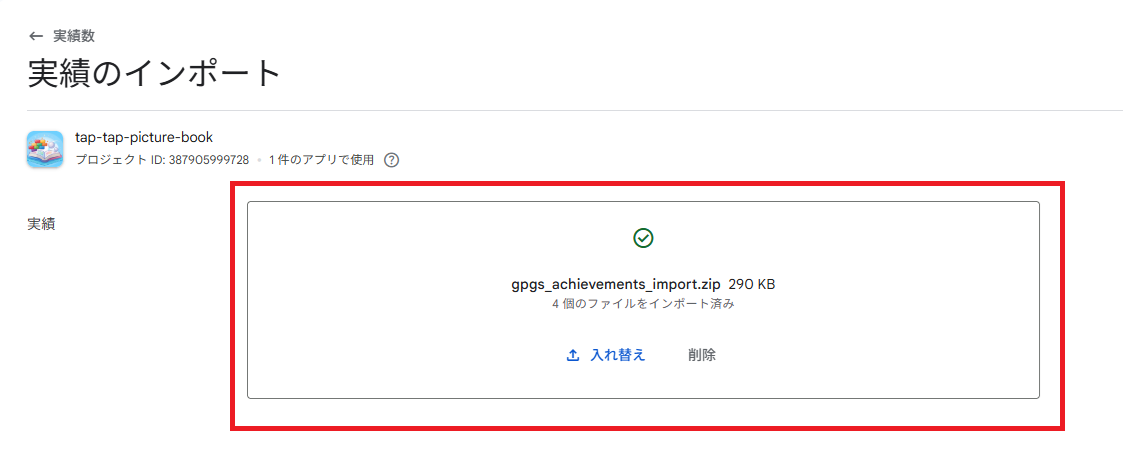
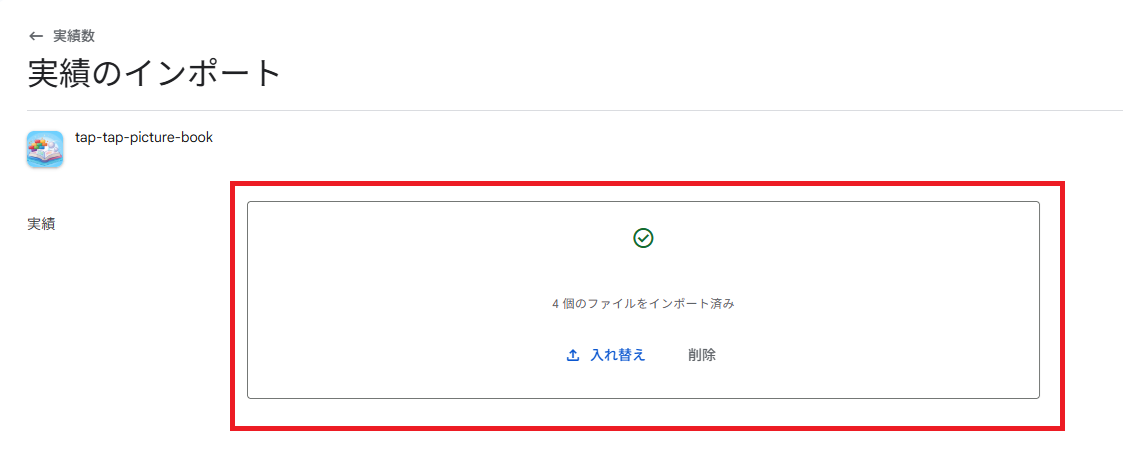
Remove internal project details from existing posts
Replace repo paths and file names with placeholders, mark
environment-specific values as examples, and hide the GCP project ID
and upload file name in the Play Console screenshots.

Changed region(s): [[0.0623, 0.3277, 0.374, 0.3574], [0.4363, 0.5957, 0.6857, 0.6255]]

diff --git a/_posts/2026-09-09-cjk-font-fallback-in-godot-4.md b/_posts/2026-09-09-cjk-font-fallback-in-godot-4.md
@@ -7,17 +7,17 @@ description: "How Tap Tap Picture Book renders Latin, Japanese, and Korean from 
 image: /icon.png
 ---
 
-*Tap Tap Picture Book* ships in seven languages, three of which — English, Japanese, and Korean — need real script coverage rather than a placeholder tofu box. Godot 4 makes this workable with a single global `Theme`, but getting there took a few non-obvious steps: a base font with a glyph hole, a fallback chain, a baseline mismatch, and a font-size gotcha in the theme system itself. This is a walkthrough of how the UI font pipeline in `game_state.gd` ended up shaped the way it did.
+*Tap Tap Picture Book* ships in seven languages, three of which — English, Japanese, and Korean — need real script coverage rather than a placeholder tofu box. Godot 4 makes this workable with a single global `Theme`, but getting there took a few non-obvious steps: a base font with a glyph hole, a fallback chain, a baseline mismatch, and a font-size gotcha in the theme system itself. This is a walkthrough of how the game's UI font setup ended up shaped the way it did.
 
 ## The gap: a base font with zero Hangul glyphs
 
 The game's base UI font is MPLUS Rounded 1c (Medium weight). It covers Latin — including accented forms — and Japanese cleanly. What it does **not** cover is Hangul: zero Korean glyphs. Assign it directly to a `Theme` and any Korean string silently falls through to whatever CJK font the OS happens to have installed, which breaks visual consistency between platforms and between Korean and the other two scripts on the same screen.
 
-Godot's answer to "font A doesn't have this glyph, try font B" is `FontVariation.fallbacks` — an array of fonts consulted in order whenever the primary font can't shape a character:
+Godot's answer to "font A doesn't have this glyph, try font B" is `FontVariation.fallbacks` — an array of fonts consulted in order whenever the primary font can't shape a character. `BASE_FONT_PATH` and `KOREAN_FONT_PATH` stand in for wherever your own font files live:
 
 ```gdscript
-var base_font := load("res://src/fonts/MPLUSRounded1c-Medium.ttf") as FontFile
-var korean_font := load("res://src/fonts/BMJUA.ttf") as FontFile
+var base_font := load(BASE_FONT_PATH) as FontFile
+var korean_font := load(KOREAN_FONT_PATH) as FontFile
 
 var ui_font := FontVariation.new()
 ui_font.base_font = base_font
@@ -28,7 +28,7 @@ Any label that renders Latin or Japanese text uses `base_font` as normal; the mo
 
 ## Fixing the baseline once two scripts share a line
 
-Swapping in a fallback font is rarely a drop-in fix on its own — different type foundries draw their `ascent`/`descent`/`lineGap` metrics differently, so a Korean glyph and a Japanese glyph on the same baseline can end up visually offset even though the font engine considers them correctly aligned. In this project, the shipped `BMJUA.ttf` isn't the distributor's original file: its `hhea`/`OS/2` vertical metrics were rewritten to match MPLUS's values, and the glyph outlines were translated vertically, specifically to fix that baseline drift where the two scripts meet. It's a one-time, font-level fix rather than something handled per-label at runtime — which matters, because runtime nudging (padding, offsets) would have to be reapplied at every font size the UI scales to.
+Swapping in a fallback font is rarely a drop-in fix on its own — different type foundries draw their `ascent`/`descent`/`lineGap` metrics differently, so a Korean glyph and a Japanese glyph on the same baseline can end up visually offset even though the font engine considers them correctly aligned. In this project, the shipped BM JUA font isn't the distributor's original file: its `hhea`/`OS/2` vertical metrics were rewritten to match MPLUS's values, and the glyph outlines were translated vertically, specifically to fix that baseline drift where the two scripts meet. The exact offsets are specific to this font pairing; a different pair of fonts needs its own measurements. It's a one-time, font-level fix rather than something handled per-label at runtime — which matters, because runtime nudging (padding, offsets) would have to be reapplied at every font size the UI scales to.
 
 ## Weight without a second font file
 
@@ -54,11 +54,11 @@ body_font.variation_embolden = 0.2
 body_font.fallbacks = [korean_font_body]
 ```
 
-`ui_font` (titles, emphasis, and the theme default) and `body_font` (body and secondary text) each carry their *own* Korean fallback tuned to the same embolden value, so the two scripts land at matching visual weight instead of Korean text looking heavier or lighter than the Latin/Japanese text next to it. The embolden numbers themselves aren't derived from any formula — they're hand-picked by comparing renders on a real device and in the editor, and they'll likely keep shifting as the UI evolves.
+`ui_font` (titles, emphasis, and the theme default) and `body_font` (body and secondary text) each carry their *own* Korean fallback tuned to the same embolden value, so the two scripts land at matching visual weight instead of Korean text looking heavier or lighter than the Latin/Japanese text next to it. The embolden numbers themselves aren't derived from any formula — they're hand-picked by comparing renders on a real device and in the editor, and they'll likely keep shifting as the UI evolves. Treat `0.5` and `0.2` as example starting points, not recommended values.
 
 ## The theme font-size trap
 
-One gotcha that's easy to lose an hour to: setting `Theme.default_font_size` is **not enough** to change font size globally. Godot's built-in theme overrides font size per control type, so a fresh `Theme` still needs each type covered explicitly, and the theme has to actually be assigned to the tree root before it takes effect:
+One gotcha that's easy to lose an hour to: setting `Theme.default_font_size` is **not enough** to change font size globally. Godot's built-in theme overrides font size per control type, so a fresh `Theme` still needs each type covered explicitly, and the theme has to actually be assigned to the tree root before it takes effect. `FONT_SIZE` and the list of control types are examples; cover whichever controls your UI uses:
 
 ```gdscript
 var theme := Theme.new()
@@ -75,7 +75,7 @@ Skip the per-type loop and `default_font_size` quietly does nothing for `Label` 
 
 ## Keeping the binary small: subsetting on a schedule, not automatically
 
-Shipping full CJK font files would bloat the app for glyphs the game never actually uses. A build script (`tools/fonts/subset_fonts.py`) subsets the source masters down to only the characters that are actually referenced, pulled from three places: every string in the `i18n/*.json` locale files, hardcoded string literals in `.gd`/`.tscn` files (comments excluded — the regex only matches quoted literals), and the printable ASCII range as a safety baseline so digits and symbols never go missing. Font-to-locale mapping is centralized in a `FONT_LOCALE_MAP`, and requesting a character a given font doesn't have is a silent no-op rather than an error — so overlapping character requests across fonts are harmless.
+Shipping full CJK font files would bloat the app for glyphs the game never actually uses. A build script subsets the original fonts down to only the characters that are actually referenced, pulled from three places: every string in the translation files, hardcoded string literals in scripts and scenes (comments excluded — the regex only matches quoted literals), and the printable ASCII range as a safety baseline so digits and symbols never go missing. Each font is mapped to the languages it serves, and requesting a character a given font doesn't have is a silent no-op rather than an error — so overlapping character requests across fonts are harmless. The details are in [Subsetting Fonts for a Multilingual Godot Game]({% post_url 2026-09-14-subsetting-fonts-for-a-multilingual-godot-game %}).
 
 The script doesn't watch for changes automatically. It's a manual step before release, run again whenever locale text, font masters, or hardcoded strings change — with a `--dry-run` pass first to confirm new characters are actually covered before regenerating the shipped fonts.
 

diff --git a/_posts/2026-09-09-gpgs-achievement-import-failure.md b/_posts/2026-09-09-gpgs-achievement-import-failure.md
@@ -19,7 +19,7 @@ My first instinct was to check Google's [general supported languages list](https
 
 Same error, unchanged.
 
-**The actual fix**: the error message's "supported by the game" doesn't refer to Google's general language list at all — it refers to the specific set of languages *this project* has registered under **Play Console → Play Games Services → Configuration → Edit properties → Manage translations**. Whatever locale codes are configured there (checked by literally opening that screen) are the only ones the CSV importer will accept, regardless of what any general documentation says. My original codes (`ko-KR`, `ja-JP`, `de-DE`, plus `es-419`, `pt-BR`, `fr-FR`) turned out to be exactly right once I matched them against that screen — my "fix" had actually broken things further.
+**The actual fix**: the error message's "supported by the game" doesn't refer to Google's general language list at all — it refers to the specific set of languages *this project* has registered under **Play Console → Play Games Services → Configuration → Edit properties → Manage translations**. Whatever locale codes are configured there (checked by literally opening that screen) are the only ones the CSV importer will accept, regardless of what any general documentation says. My original codes (`ko-KR`, `ja-JP`, `de-DE`, plus `es-419`, `pt-BR`, `fr-FR` — these are just the languages my project happens to register; yours will depend on your own configuration) turned out to be exactly right once I matched them against that screen — my "fix" had actually broken things further.
 
 **Lesson**: when an error says "supported by X," check X's actual live configuration before consulting general documentation. Generic references can be true in general and still not apply to your specific setup.
 
@@ -28,7 +28,7 @@ Same error, unchanged.
 With the locale issue fixed, uploading the ZIP now showed a green checkmark — "4 files imported successfully."
 
 <figure>
-  <img src="/assets/images/posts/gpgs-achievement-import-failure/import-success.png" alt="Play Console import screen showing gpgs_achievements_import.zip with a green checkmark and '4 files imported successfully'." />
+  <img src="/assets/images/posts/gpgs-achievement-import-failure/import-success.png" alt="Play Console import screen showing the uploaded ZIP with a green checkmark and '4 files imported successfully'." />
   <figcaption>The Play Console UI is in Japanese here (my account's console language) — the screenshots below are too, but the text isn't essential to follow along.</figcaption>
 </figure>
 
@@ -69,14 +69,14 @@ I approached this as a binary search, changing exactly one variable per test:
    </figure>
 
    Field `1: 3` is the gRPC status code for `INVALID_ARGUMENT`. Field `2` is a human string — but a completely generic one. Still no field-level detail.
-5. **Strip down to the essentials**: Both `AchievementsLocalizations.csv` and `AchievementsIconsMappings.csv` are optional per spec. I built a ZIP with *only* `AchievementsMetadata.csv`, one achievement, no icon at all:
+5. **Strip down to the essentials**: Both `AchievementsLocalizations.csv` and `AchievementsIconsMappings.csv` are optional per spec. I built a ZIP with *only* `AchievementsMetadata.csv`, one achievement, no icon at all (the row below is an example test row):
 
    ```
    First Step,Clear 1 stage,True,1,Revealed,5,10
    ```
 
    Still failed, identically. This ruled out localization and icon files entirely — the bug had to be in `AchievementsMetadata.csv` itself, or somewhere outside the file altogether.
-6. **Sanity check: can this project create achievements at all?** I tried creating a single achievement manually through the Play Console UI (no CSV involved). The save button threw a generic, unrelated-looking error toast (`予期しないエラーが発生しました... (7263940F)`) — but refreshing the list showed the achievement had actually been created. This confirmed the project itself wasn't blocked; the problem was specific to the bulk-import (`bulkCreate`) code path.
+6. **Sanity check: can this project create achievements at all?** I tried creating a single achievement manually through the Play Console UI (no CSV involved). The save button threw a generic, unrelated-looking "An unexpected error occurred" toast — but refreshing the list showed the achievement had actually been created. This confirmed the project itself wasn't blocked; the problem was specific to the bulk-import (`bulkCreate`) code path.
 7. **The actual culprit**: Comparing my one remaining test row against what a "normal" quick-created achievement probably looks like, I suspected the combination of `Incremental value = True` with `Steps Needed = 1`. I tested:
    - `Incremental=False` (non-incremental), same row otherwise → succeeded.
    - `Incremental=True`, `Steps Needed=50` (not 1) → succeeded.
